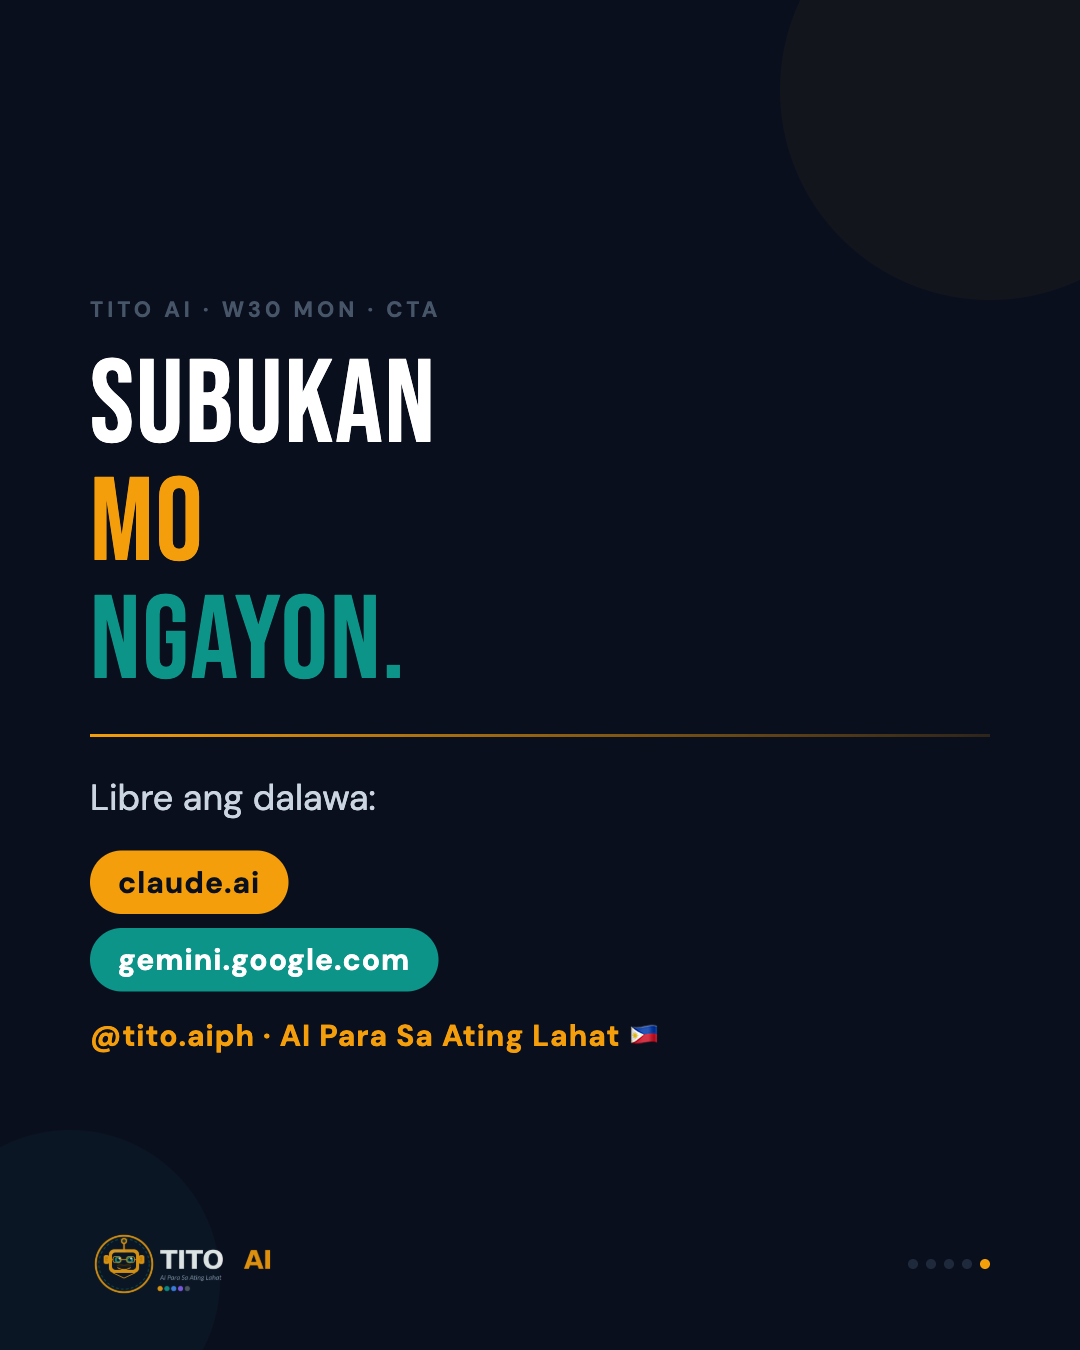
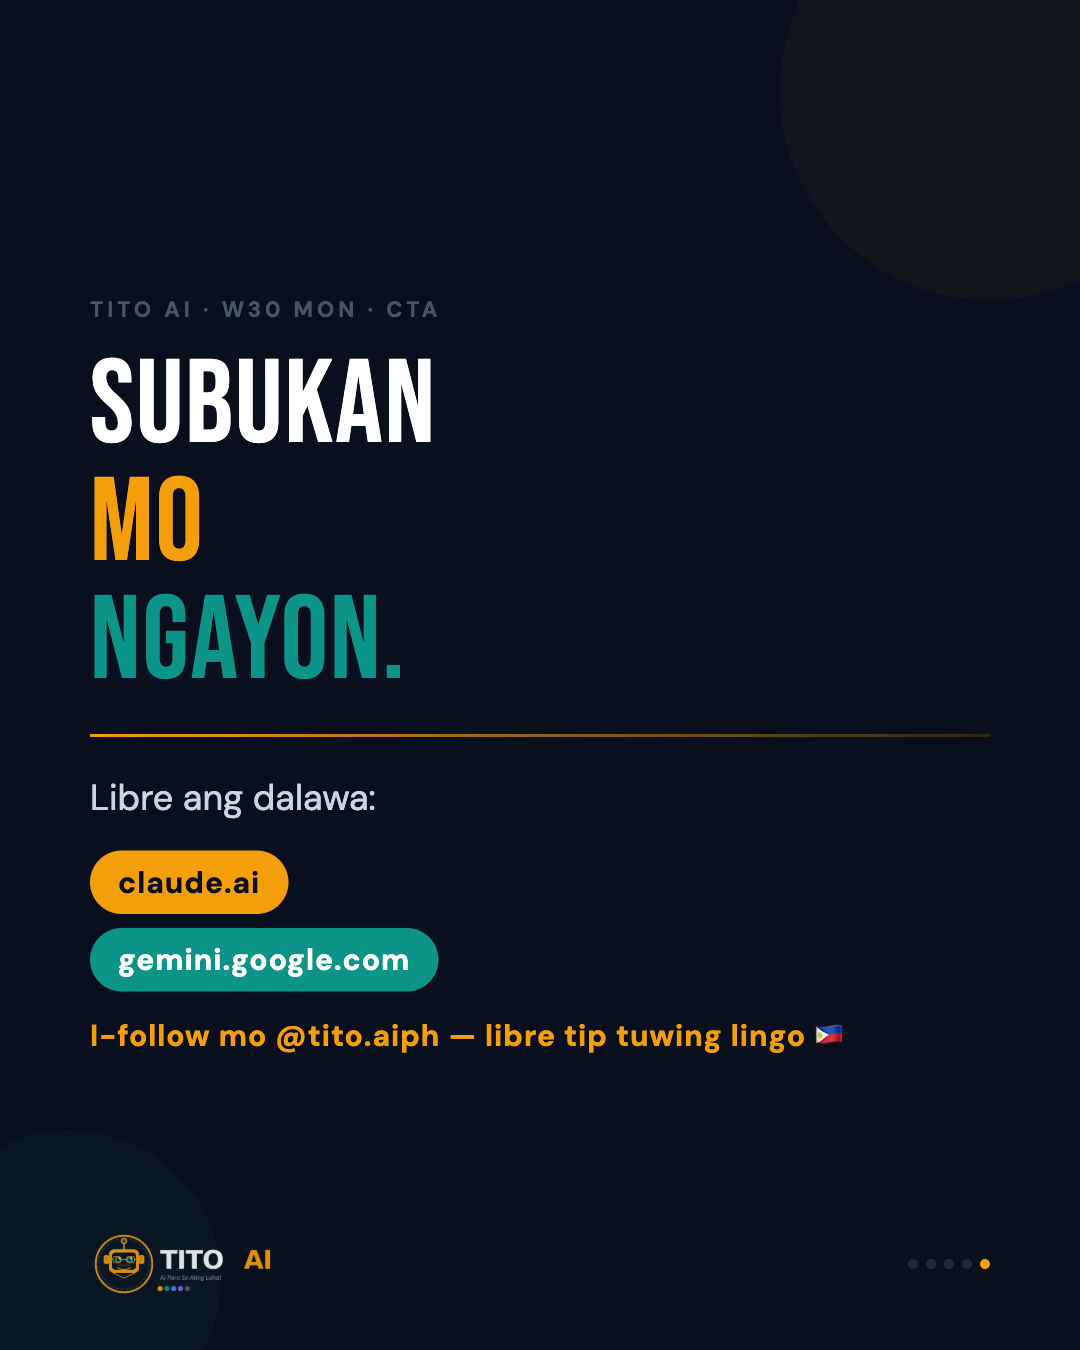
Update W30 Mon S5 CTA slide with follow CTA
Claude-Session: https://claude.ai/code/session_0191fKHHUJUXNFY979xaaGuM

Changed region(s): [[0.0917, 0.7467, 0.7944, 0.7778]]

diff --git a/docs/renders/w30-mon-s5-solo.html b/docs/renders/w30-mon-s5-solo.html
@@ -34,7 +34,7 @@ body{width:1080px;height:1350px;overflow:hidden}
     <div class="chip chip-gold">claude.ai</div>
     <div class="chip chip-teal">gemini.google.com</div>
   </div>
-  <div class="handle">@tito.aiph · AI Para Sa Ating Lahat 🇵🇭</div>
+  <div class="handle">I-follow mo @tito.aiph — libre tip tuwing lingo 🇵🇭</div>
   <div class="footer">
     <img src="http://localhost:8766/assets/logo-horizontal.png" alt="Tito AI">
     <div class="pips"><div class="pip"></div><div class="pip"></div><div class="pip"></div><div class="pip"></div><div class="pip active"></div></div>
